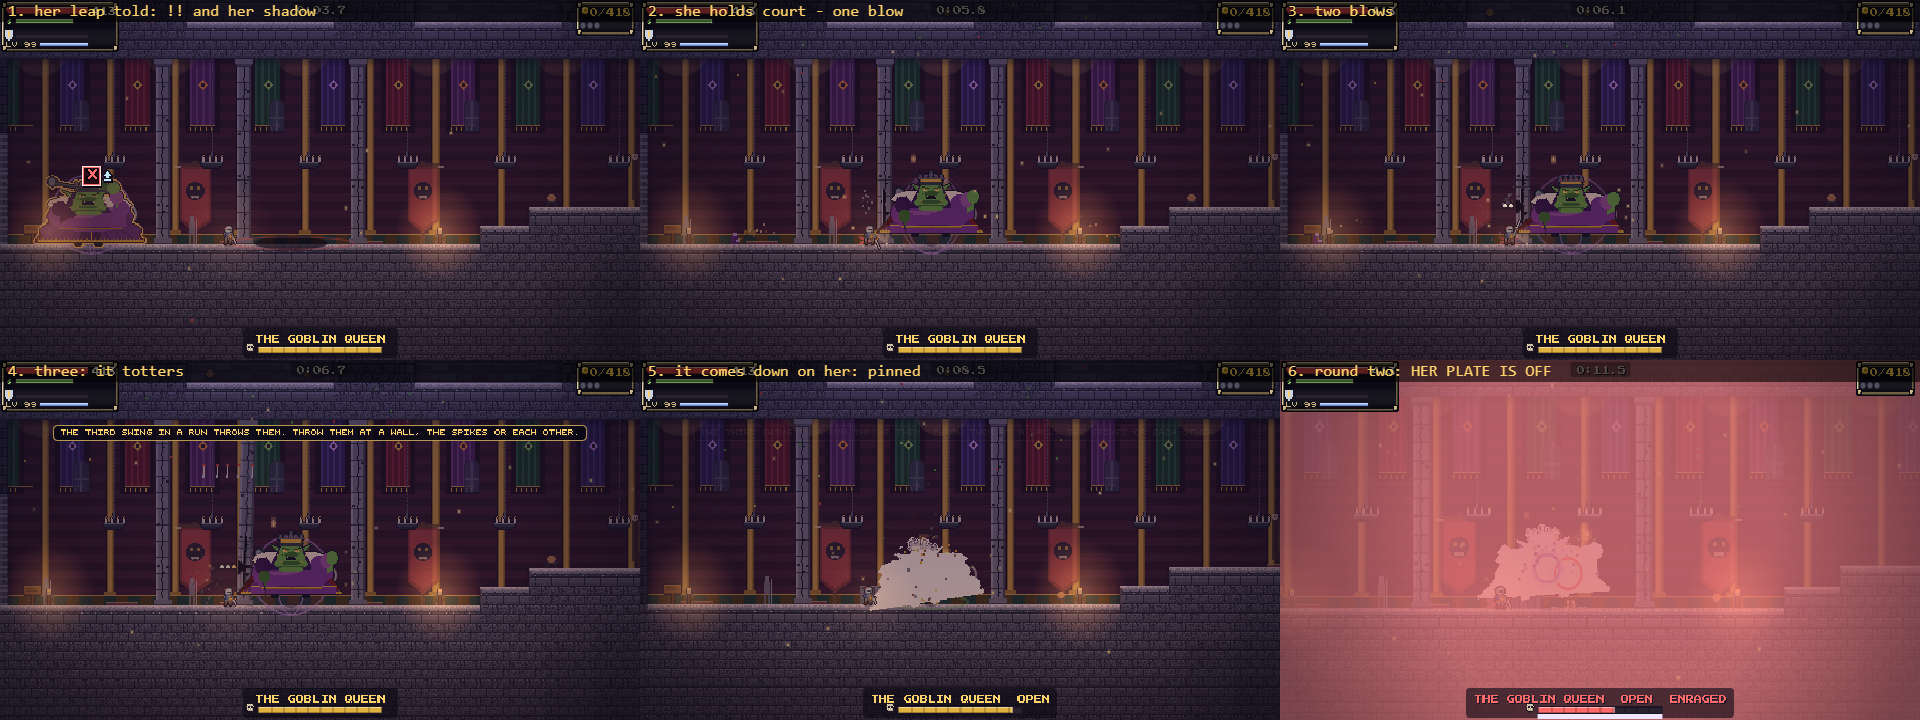
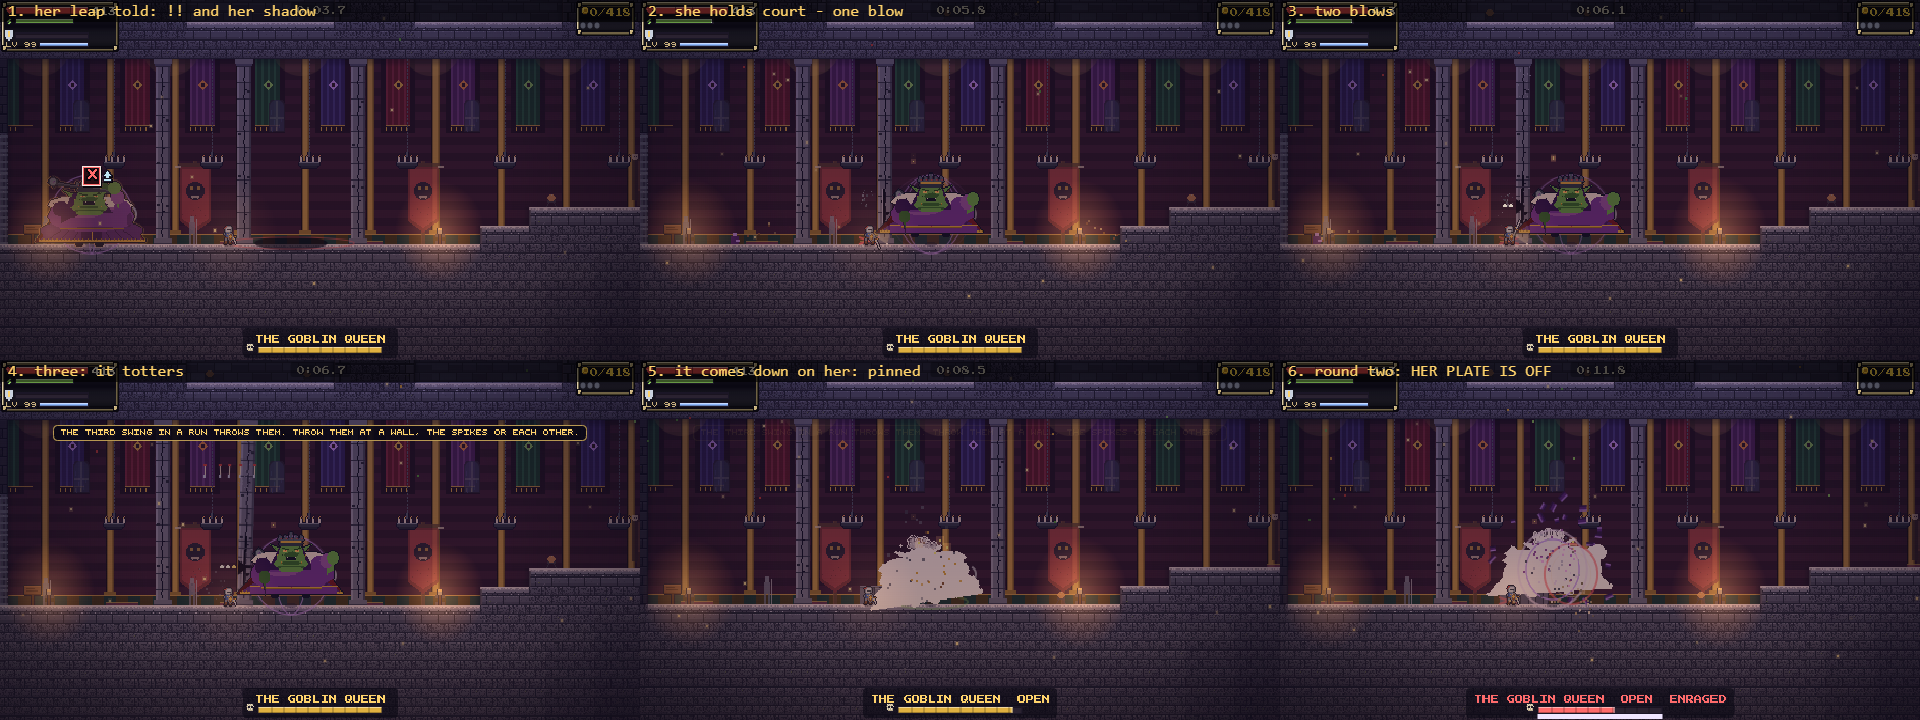
gqueen2: lane report, contact sheet, checks log

diff --git a/work/claude/lane-done/claude-gqueen2.md b/work/claude/lane-done/claude-gqueen2.md
@@ -1,0 +1,131 @@
+# claude/gqueen2 — lane report (2026-09-29): THE GOBLIN QUEEN HOLDS COURT
+
+Daniel played her and said *"she's basically the Ram Lord - just ramming into walls."* This lane builds the design he approved.
+She no longer charges. She holds court, and you bring her hall down on her. Her other attacks and her numbers (health,
+damage) are unchanged. The brief as built is `docs/briefs/goblin-queen-court.md`.
+
+## What changed
+
+**Her charge is gone.** `chargeTell`, `charge` and `dazed` are removed from `updateGQueen`: the bait, the charge chain
+entry, the wall daze, the pillar shake in her tell and the `r.hitX` stumble. Nothing in her fight asks about a wall any more.
+
+**Round one (100% to 66%).** I kept her existing round breaks at 66% and 33%; 66% is close to the ~60% the design asked for.
+- **She leaps about her hall** (`hallLeapTell` → `hallLeap` → `quake`). Each leap is told with a red `!!` (with the JUMP
+  mark beside it) and her shadow on the floor where she will land, drawn through the whole tell and flight with a red ring
+  showing the quake's reach.
+- **The landing is her one new attack, THE QUAKE.** Waves run both ways along the floor, and a shock hurts a hero
+  standing within 70 px (`DMG.gqSlam`). A hero in the air takes nothing from it. New rows in `src/marks.js`: MARK `!!`
+  (written by `tells.mjs --write`), ANSWER `jump`, HEIGHT `low`.
+- **She holds court.** At the top of her chain she leaps to the standing pillar nearest you and lands on its far side,
+  46 px off it. She lands with the quake, turns her back to you and points for **3.5 s** (I took the middle of the
+  3-4 s you recommended). While she points, her gallery looses where she points: a red cross appears on the floor under
+  you, and five arrows land on it 0.9 s later. This repeats every 1.15 s of the hold.
+  - This is the old throne `point` case, which had been unreachable since 4a8ec47, reworked for the hall.
+- **The hero breaks the pillar.**
+  - It takes three blows on the pillar's own box. That check runs in `updateCastleProps`, separate from her body, so her
+    plate never eats a blow on the pillar (tested with her body over the pillar).
+  - The crack widens with each blow and is drawn in three states: none, a split, then a wedge out with the drums sitting
+    off true. Each blow knocks chips off and drops dust from the capital.
+  - After the third blow, **"IT GOES"** is called and the pillar **totters for 1.7 s**. It rocks harder as the time runs out.
+  - Then it falls toward her if she is on the floor within 150 px of it, and **pins her** through the same `gqPin` as
+    before (4.6 s, 7% of her health, open).
+  - If she is anywhere else when it falls, it falls away from the hero and is wasted: only its rubble platform is left.
+- **The pillars stand again** at round three and on a retry. They do not stand again in round two.
+- **The door sign** (passes textfit): `HER PLATE TURNS BLADES. BREAK THE PILLAR SHE HOLDS COURT BESIDE: IT COMES DOWN ON HER.`
+- **The hint** after her first warded blow names the new rule. In round two it names the plate.
+
+**Round two (66% to 33%).**
+- **The pillars stay down.** Her court leaps land about 84 px from you, anywhere on the floor, and she points with her back to you.
+- **Her plate has its own bar** under her health bar: 6 pieces, notched, with a flare when struck (`drawGqPlate`). Only
+  two things take a piece:
+  - a **chandelier** on her: 2 pieces, and it still pins her;
+  - a blow **while she points** that lands on her **back** or is **heavy**: 1 piece, at most one per 0.5 s.
+  - That makes three chandeliers, six back blows, or any mix. A blow while she stands does nothing to the plate, from
+    her front or her back.
+- **When the bar empties the plate shatters.**
+  - 22 pieces of violet plate spin off and bounce on the floor.
+  - The sound is the synth set's `dkWardBreak` + `golemShatter` + `crack`, with a camera kick and a flash.
+  - The callout is `HER PLATE IS OFF`.
+  - From then until round three, `gqOpen` is true: every blow lands at its base damage, like any foe. Her boss bar
+    reads OPEN.
+- **Plate off, she fights like a duelist.** Every move is told, and nothing untold was added:
+  - her leaps come every 2.2 s instead of 4.5, spend 0.6 s in the air instead of 0.75, and land on you;
+  - the sceptre comes back to her hand straight into a told sweep if you are within 80 px, or a told leap at you if not;
+  - she holds court every 3.6 s instead of 6, for 2.6 s each time;
+  - her decree comes every 6 s instead of 9.
+  - Her health is not raised.
+
+**Round three (33% to the end).**
+- This is the round your brief calls "the roof". The code's roof round (`onRoof`) was already retired, so the round that
+  plays is this one, in her hall.
+- It plays as it did: her plate is whole (only a pin opens her), her shadow step comes first, and her crown burns at 15%.
+- The pillars stand again, and her court leap takes the slot her charge had. Without that the pillars would do nothing
+  in this round (question 1).
+
+**The bot (`src/lab.js`).**
+- **Round one:** it waits by a pillar and cracks it twice while she is more than 110 px away. When she lands beside the
+  pillar and points, it gives the third blow. It stands clear of the fall.
+- **Round two:** it strikes her back while she points, and uses the chandelier play as before.
+- **Plate off or pinned:** it cuts her as an open boss (`OPEN0` and `BK.bossOpen` now answer `gqOpen`).
+- **The quake:** it jumps as she comes down within 100 px of it, and jumps her floor waves. This happens even while she
+  is open, because plate off she leaps at you.
+- Nothing is broken or dropped for the bot: every pillar blow is a real swing.
+
+## Pictures
+- `work/gqueen2/before-charge-tell.png`: master (d78b15e), her charge tell into a pillar.
+- `work/gqueen2/court-sheet.png`: after, six frames from the page's own buffer (`tools/queen-court-shots.mjs`):
+  1. her leap told, with the `!!`, the jump mark and her shadow;
+  2. her holding court beside a pillar after one blow;
+  3. the pillar after two blows;
+  4. the pillar tottering after the third;
+  5. her pinned under the fallen shaft;
+  6. round two, `HER PLATE IS OFF` with the shards.
+
+## Pilots
+Boss lab on crown, refill health, 300 s cap, 1 seed per hero (`tools/queen-pilot.mjs 300 1 knight,warden,pyro`; I added the
+hero list argument). Logs: `work/gqueen2/pilot-before.txt` and `pilot-after.txt`.
+
+| hero | before (master) | after |
+|---|---|---|
+| knight | win 130.9 s: 4 pillar pins, 1 chandelier, 6 charges | win 87.2 s: 3 pillar pins, 1 chandelier, plate off at 69 s, 4 courts, 5 quakes, 0 charges |
+| warden | win 56.0 s: 2 pillar, 2 chandelier, 2 charges | win 120.3 s: 4 pillar, 1 chandelier, plate off at 79 s, 5 courts, 0 charges |
+| pyro | win 89.4 s: 3 pillar, 2 chandelier, 3 charges | win 48.7 s: 2 pillar, 2 chandelier, plate never broke (round two went on chandelier pins), 0 charges |
+| median win | 89.4 s | 87.2 s |
+
+Damage the hero took per minute, before and after: knight 218 → 141, warden 88 → 98, pyro 278 → 113. After the change,
+what hit the knight most was her court (the arrows at 110), not her slam.
+
+## Checks
+- `tools/queen-court.mjs` is new and in `tools/check.mjs` in place of `queen-pillars`. **It was red on d78b15e**, with
+  the chain, quake, court, pillar, plate and shatter items all failing; the output is in
+  `work/gqueen2/court-red-on-d78b15e.txt`. It is green on this branch (`work/gqueen2/court-1.txt`).
+- **`tools/queen-pillars.mjs` is deleted and removed from check.mjs.** Its asserts (three pillars, rubble is drawn floor,
+  the pin matches the chandelier's, every hero, the lab gets a pillar pin) are folded into `queen-court`. The old brief is
+  marked superseded.
+- Green (`work/gqueen2/checks.txt`, plus a separate signs/textfit run): queen-court, queen-chandelier, boss-openings (A11), arena-supplies, tells (after `--write`: the `gqueen|chargeTell` row went and `gqueen|hallLeapTell` !! came in), answer-tags, untold-told, attack-tokens, boss-fight-end, boss-jump, signs, textfit, comments, homepaths, syntax, and the 7 required: architecture, checkpoints, skins, dangling-paths, boss-fight-end, slopes-trace (unchanged for every level, no rebase), npc-removal. The full suite was NOT run.
+
+## UNVERIFIED
+- **Not played by hand.** Nobody has judged by eye in motion whether the crack states, the totter and the shadow read.
+- **The crack states are small at 1x.** On the contact sheet the hero stands in front of the crack, so a player may read
+  the dust and "IT GOES" more than the crack itself.
+- **Frame 5 of the sheet is mostly dust.** The toppling shaft is behind the burst at that moment.
+- **Round three was only checked for what it keeps** (the shadow step first, the plate whole, the pillars standing). No
+  pilot looked at round three separately.
+
+## QUESTIONS FOR DANIEL
+1. **Round three's charge.** Removing the charge also took it out of round three, which you asked to leave unchanged. I
+   put her court leap in its place so the re-stood pillars still do something. *Recommendation: keep it.* The
+   alternative is round three opened only by chandeliers, which is slower and teaches nothing new.
+2. **The plate comes back in round three.** Your brief said "gqOpen true for the rest of phase 2", so I built it that
+   way: round three starts plated, with the ward shell back. *Recommendation: keep it (built)*, but it may want a callout
+   ("HER COURT ARMS HER AGAIN"). The other option is to leave the plate off for the rest of the fight.
+3. **A back blow is almost every blow.** While she points she keeps her back to you, so every blow struck in reach while
+   she points counts. The 0.5 s limit makes six blows take about one and a half holds. *Recommendation: keep it* (it
+   matches "her back is to you when she commands"). If it is too quick, cap a hold at 3 pieces.
+4. **Pillars wasted in round one do not come back** until round three. With all three wasted, the chandeliers are the
+   only way to pin her until 66%. *Recommendation: keep it* (the pillars cost something).
+5. **Pillars still standing at 66% stay up in round two.** They still pin her if she happens to hold court beside one.
+   *Recommendation: keep it.* Or bring them all down at the round change ("the storm brings them down") for a pure
+   plate round.
+6. **The bot's win times barely moved** (median 89 s → 87 s, 3/3 wins). *Recommendation: play her before tuning.* If
+   round one is too easy, shorten her hold to 3.0 s. Never raise her health.
